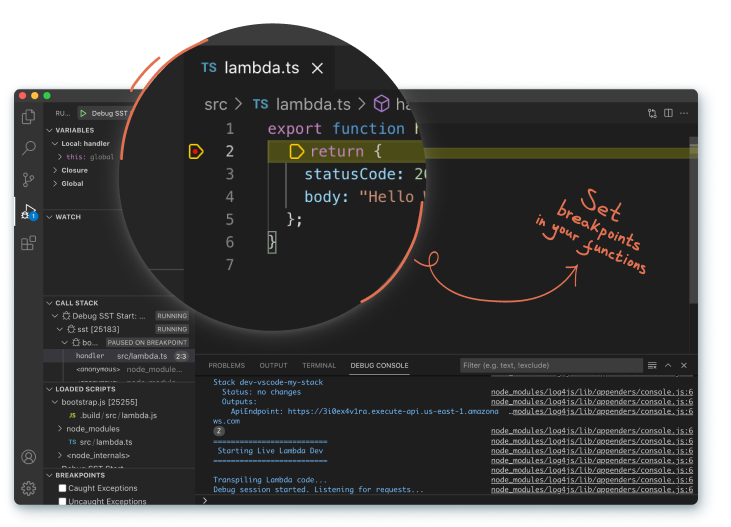
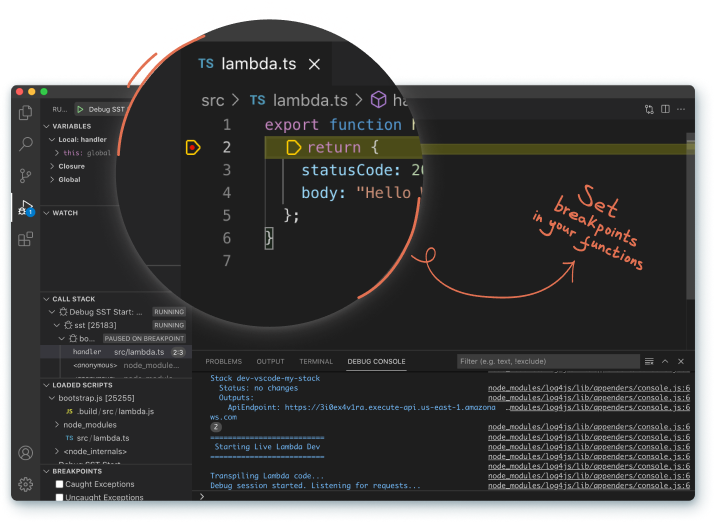
Adding console section to homepage

diff --git a/_sass/lander.scss b/_sass/lander.scss
@@ -499,6 +499,10 @@ $reader-logo-width: 123px;
   padding: 2.5 * $spacing-unit + 5px $spacing-unit 0;
   overflow: hidden;
 
+  @include media-query($on-palm) {
+    padding: 0;
+  }
+
   &:after {
     @extend %bottom-border;
     margin-top: 2.5 * $spacing-unit;
@@ -511,9 +515,21 @@ $reader-logo-width: 123px;
 
   &.examples:after {
     margin-top: 2 * $spacing-unit - 10px;
+
+    @include media-query($on-palm) {
+    margin-top: 1.5 * $spacing-unit;
+    }
   }
 
   &.breakpoints:after {
+    margin-top: $spacing-unit / 2;
+
+    @include media-query($on-palm) {
+      margin-top: $spacing-unit / 2;
+    }
+  }
+
+  &.console:after {
     margin-top: $spacing-unit / 2;
 
     @include media-query($on-palm) {
@@ -528,15 +544,14 @@ $reader-logo-width: 123px;
       margin-top: 0;
     }
   }
-
-  @include media-query($on-palm) {
-    padding: 0 $spacing-unit / 2;
-  }
-
   & > .title {
     display: inline-block;
     position: relative;
     margin-bottom: 1.5 * $spacing-unit;
+
+    @include media-query($on-palm) {
+      padding: 0 $spacing-unit / 2;
+    }
 
     @include media-query($on-laptop) {
       margin-bottom: $spacing-unit;
@@ -611,9 +626,10 @@ $reader-logo-width: 123px;
     }
   }
   &.console > .title {
+    margin-bottom: $spacing-unit / 2 + 5px;
 
     @include media-query($on-palm) {
-      margin-bottom: $spacing-unit + 10px;
+      margin-bottom: 0;
 
       img { display: none; }
     }
@@ -649,6 +665,11 @@ $reader-logo-width: 123px;
 }
 
 .home > .examples > .content {
+
+  @include media-query($on-palm) {
+    padding: 0 $spacing-unit / 2;
+  }
+
   & > .controls {
     margin-bottom: 1.5 * $spacing-unit;
     position: relative;
@@ -889,7 +910,9 @@ $reader-logo-width: 123px;
   }
 }
 
-.home > .breakpoints > .content {
+.home > .breakpoints > .content,
+.home > .console > .content,
+.home > .cdk > .content {
   text-align: center;
 
   svg:last-child {
@@ -903,97 +926,8 @@ $reader-logo-width: 123px;
 }
 
 .home > .console > .content {
-  text-align: center;
-
-  .wrap {
-    display: inline-block;
-    position: relative;
-  }
-
-  .arrow-left {
-    left: -78px;
-    top: 220px;
-    position: absolute;
-
-    @include media-query($on-palm) {
-      display: none;
-    }
-  }
-  .arrow-left-mobile {
-    display: none;
-    left: -11px;
-    top: -16px;
-    position: absolute;
-
-    @include media-query($on-palm) {
-      display: block;
-    }
-  }
-  .copy-left {
-    left: -140px;
-    top: 135px;
-    position: absolute;
-
-    @include media-query($on-palm) {
-      left: 28px;
-      top: -25px;
-      width: 32px;
-      transform: rotate(26deg);
-    }
-  }
-  .arrow-right {
-    right: -52px;
-    bottom: 148px;
-    position: absolute;
-
-    @include media-query($on-palm) {
-      display: none;
-    }
-  }
-  .arrow-right-mobile {
-    display: none;
-    right: -13px;
-    top: -17px;
-    position: absolute;
-
-    @include media-query($on-palm) {
-      display: block;
-    }
-  }
-  .copy-right {
-    right: -145px;
-    top: 123px;
-    position: absolute;
-
-    @include media-query($on-palm) {
-      right: 6px;
-      top: -45px;
-      width: 26px
-    }
-  }
-  .screenshot {
-    border-radius: 10px;
-    box-shadow: 6px 9px 25px rgba(57, 92, 107, 0.4),
-                0px 4px 12px rgba(57, 92, 107, 0.3);
-
-    @include media-query($on-palm) {
-      border-radius: 3px;
-      box-shadow: 2px 3px 8px rgba(57, 92, 107, 0.4),
-                  0px 1px 4px rgba(57, 92, 107, 0.3);
-    }
-  }
-}
-
-.home > .cdk > .content {
-  text-align: center;
-
-  svg:last-child {
-    display: none;
-  }
-
   @include media-query($on-palm) {
-    svg:first-child { display: none; }
-    svg:last-child { display: inline; }
+    margin-top: -25px;
   }
 }
 

diff --git a/index.md b/index.md
@@ -136,23 +136,21 @@ description: "Serverless Stack (SST) is a framework that makes it easy to build 
     <svg viewBox="0 0 2684 1366" xmlns="http://www.w3.org/2000/svg">
       <image x="432" y="0" width="2252" height="1366" href="/assets/lander/graphics/breakpoints-image.png" />
     </svg>
-    <svg viewBox="0 0 750 527" xmlns="http://www.w3.org/2000/svg">
-      <image x="19" y="0" width="731" height="527" href="/assets/lander/graphics/breakpoints-image-mobile.png" />
+    <svg viewBox="0 0 760 522" xmlns="http://www.w3.org/2000/svg">
+      <image x="28" y="0" width="714" height="522" href="/assets/lander/graphics/breakpoints-image-mobile.png" />
     </svg>
   </div>
 
 </div>
 
-{% comment %}
-<!--
-<div class="sections console wrapper ">
+<div class="sections console wrapper">
 
   <div class="title">
     <h2>Easy to use <span>console</span></h2>
     <br />
     <p>
-      Browse your constructs, invoke your functions, and view your logs live.
-      <a class="more" href="{% link _examples/how-to-debug-lambda-functions-with-visual-studio-code.md %}">
+      Manage your resources, invoke functions, and view your logs live.
+      <a class="more" href="{{ site.docs_url }}/console">
         Learn more <i class="fa fa-angle-right" aria-hidden="true"></i>
       </a>
     </p>
@@ -161,20 +159,15 @@ description: "Serverless Stack (SST) is a framework that makes it easy to build 
   </div>
 
   <div class="content">
-    <div class="wrap">
-      <img class="copy-left" src="/assets/lander/graphics/console-copy-left.svg" />
-      <img class="arrow-left" src="/assets/lander/graphics/console-arrow-left.svg" />
-      <img class="arrow-left-mobile" src="/assets/lander/graphics/console-arrow-left-mobile.svg" />
-      <img class="copy-right" src="/assets/lander/graphics/console-copy-right.svg" />
-      <img class="arrow-right" src="/assets/lander/graphics/console-arrow-right.svg" />
-      <img class="arrow-right-mobile" src="/assets/lander/graphics/console-arrow-right-mobile.svg" />
-      <img class="screenshot" src="/assets/lander/graphics/breakpoints-screenshot.png" />
-    </div>
+    <svg viewBox="0 0 2640 1123" xmlns="http://www.w3.org/2000/svg">
+      <image x="54" y="0" width="2546" height="1123" href="/assets/lander/graphics/console-image.png" />
+    </svg>
+    <svg viewBox="0 0 747 577" xmlns="http://www.w3.org/2000/svg">
+      <image x="0" y="0" width="739" height="577" href="/assets/lander/graphics/console-image-mobile.png" />
+    </svg>
   </div>
 
 </div>
--->
-{% endcomment %}
 
 <div class="sections cdk wrapper ">
 
@@ -194,8 +187,8 @@ description: "Serverless Stack (SST) is a framework that makes it easy to build 
     <svg viewBox="0 0 2638 926" xmlns="http://www.w3.org/2000/svg">
       <image x="139" y="0" width="2098" height="926" href="/assets/lander/graphics/cdk-image.png" />
     </svg>
-    <svg viewBox="0 0 750 471" xmlns="http://www.w3.org/2000/svg">
-      <image x="0" y="0" width="743" height="471" href="/assets/lander/graphics/cdk-image-mobile.png" />
+    <svg viewBox="0 0 764 471" xmlns="http://www.w3.org/2000/svg">
+      <image x="7" y="0" width="743" height="471" href="/assets/lander/graphics/cdk-image-mobile.png" />
     </svg>
   </div>
 
